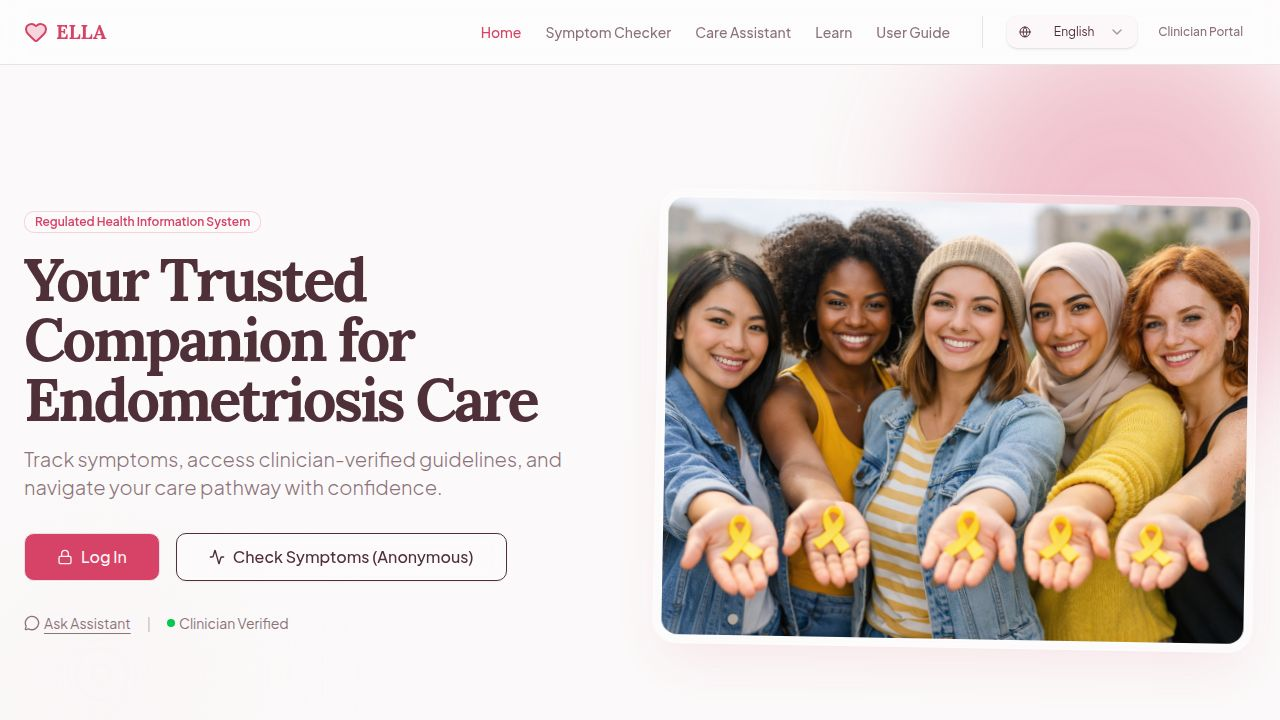
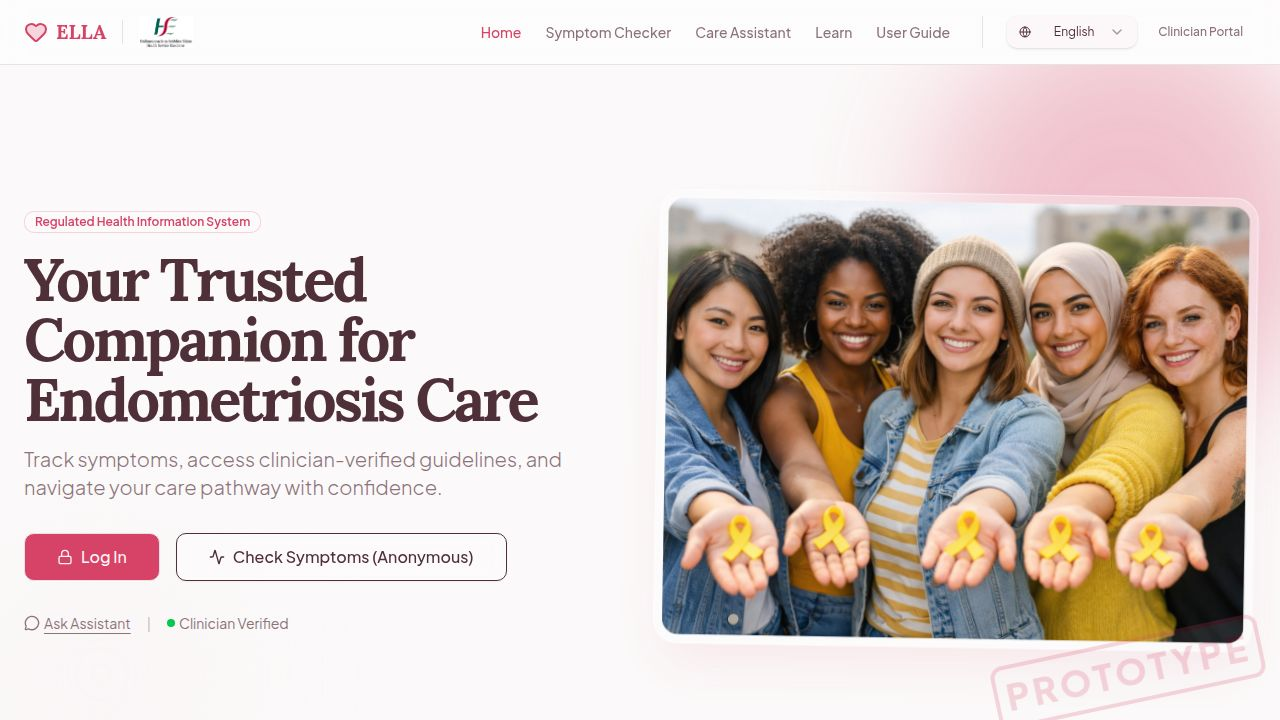
Published your App
Replit-Commit-Author: Deployment
Replit-Commit-Session-Id: 94342c9f-cecd-45cb-8c7e-70c3b24a7c3e
Replit-Commit-Checkpoint-Type: full_checkpoint
Replit-Commit-Event-Id: cebf400e-ae58-4b6e-a42f-a81717f35c4c
Replit-Commit-Screenshot-Url: https://storage.googleapis.com/screenshot-production-us-central1/f57d9400-adc5-46e2-a29b-3086c1e1310c/94342c9f-cecd-45cb-8c7e-70c3b24a7c3e/khl4Ygr
Replit-Commit-Deployment-Build-Id: ab81fe3a-8796-4dd8-bf52-43861792e1e9
Replit-Helium-Checkpoint-Created: true

Changed region(s): [[0.7812, 0.8556, 1.0, 1.0], [0.0938, 0.0306, 0.1562, 0.0611]]

diff --git a/client/src/lib/rag-system-prompts.ts b/client/src/lib/rag-system-prompts.ts
@@ -16,6 +16,38 @@ export const SAFETY_TRIGGERS = {
 };
 
 export const MOCK_RESPONSES = {
+  greeting: {
+    content: "Hello! I'm here to support you with information and guidance about endometriosis. How are you feeling today? Are you experiencing any specific symptoms, or do you have a question about management and care?",
+    citations: []
+  },
+  symptoms: {
+    content: "Common symptoms of endometriosis include painful periods (dysmenorrhoea), pain during intercourse (dyspareunia), and chronic pelvic pain. Some people also experience fatigue, bowel or bladder issues, and difficulty getting pregnant. What specific symptoms are you dealing with?",
+    citations: [
+      { title: "ESHRE Guideline: Symptoms", source: "ESHRE 2022" }
+    ]
+  },
+  treatment: {
+    content: "Treatment for endometriosis is very individualized. It typically falls into a few categories: pain relief (like NSAIDs), hormone therapy (like the combined pill or Mirena coil), and surgery (such as laparoscopy). It's best to discuss your specific goals with your specialist. Would you like to know more about a specific treatment?",
+    citations: [
+      { title: "NG73: Management options", source: "NICE 2017" }
+    ]
+  },
+  surgery: {
+    content: "Surgery, typically a laparoscopy, is often used to both diagnose endometriosis definitively and treat it by removing the endometriosis tissue (excision or ablation). It can be very effective for pain relief, but it's important to weigh the risks and recovery time with your surgeon.",
+    citations: [
+      { title: "Surgical Management", source: "NICE NG73" }
+    ]
+  },
+  fertility: {
+    content: "Endometriosis can sometimes affect fertility, but many people with the condition do go on to have successful pregnancies. If you're planning to conceive, it's a good idea to discuss this with your specialist, as it can influence your treatment plan.",
+    citations: [
+      { title: "Endometriosis and Fertility", source: "ESHRE 2022" }
+    ]
+  },
+  affirmation: {
+    content: "I completely understand. Navigating endometriosis can be incredibly complex and frustrating. It's really important that your experiences are heard and validated. How else can I support you right now?",
+    citations: []
+  },
   default: {
     content: "Endometriosis is defined as the presence of endometrial-like tissue outside the uterus, which induces a chronic, inflammatory reaction. Common symptoms include dysmenorrhoea (painful periods), dyspareunia (pain during intercourse), and chronic pelvic pain. Management options range from pain relief and hormonal treatments to surgery, depending on your individual needs and life stage.",
     citations: [

diff --git a/client/src/pages/chat-assistant.tsx b/client/src/pages/chat-assistant.tsx
@@ -76,9 +76,27 @@ export default function ChatAssistantPage() {
       return response;
     }
 
-    // Default or unknown logic (simple keyword check for demo)
-    if (lowerInput.includes("symptom") || lowerInput.includes("endometriosis") || lowerInput.includes("pain") || lowerInput.includes("help")) {
-       return MOCK_RESPONSES.default;
+    // Conversational logic
+    if (lowerInput.match(/\b(hi|hello|hey|greetings|morning|afternoon)\b/)) {
+      return MOCK_RESPONSES.greeting;
+    }
+    if (lowerInput.match(/\b(symptom|symptoms|pain|cramp|cramps|hurt|hurts|ache)\b/)) {
+      return MOCK_RESPONSES.symptoms;
+    }
+    if (lowerInput.match(/\b(treat|treatment|medication|pill|nsaid|hormone|manage)\b/)) {
+      return MOCK_RESPONSES.treatment;
+    }
+    if (lowerInput.match(/\b(surgery|laparoscopy|excision|ablation|operate)\b/)) {
+      return MOCK_RESPONSES.surgery;
+    }
+    if (lowerInput.match(/\b(fertility|pregnant|pregnancy|baby|conceive)\b/)) {
+      return MOCK_RESPONSES.fertility;
+    }
+    if (lowerInput.match(/\b(hard|difficult|struggle|frustrating|tired|exhausting)\b/)) {
+      return MOCK_RESPONSES.affirmation;
+    }
+    if (lowerInput.includes("endometriosis") || lowerInput.includes("what is")) {
+      return MOCK_RESPONSES.default;
     }
 
     return MOCK_RESPONSES.unknown;